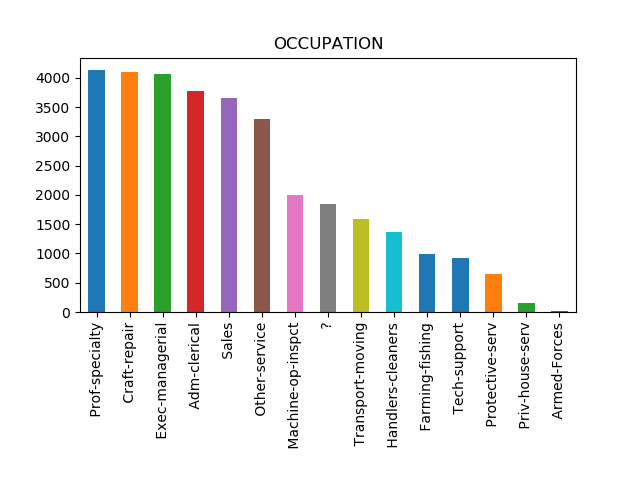
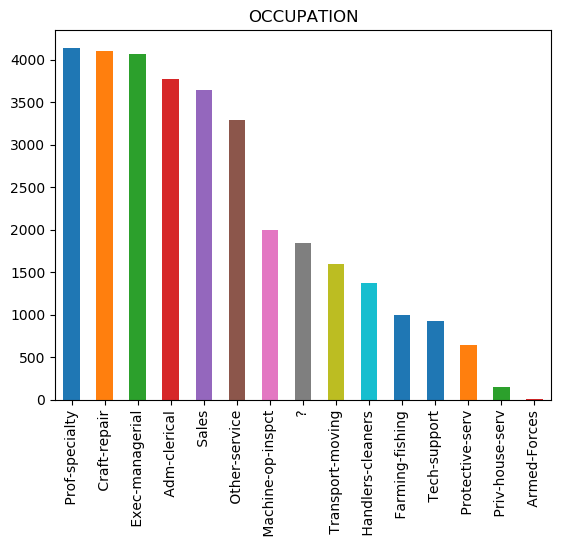
adding corr map

Changed region(s): [[0.0, 0.0, 0.9645, 0.9688]]

diff --git a/solution/preprocessors/data_loader.py b/solution/preprocessors/data_loader.py
@@ -16,6 +16,8 @@ if sys_pf == 'darwin':
 else:
     import matplotlib.pyplot as plt
 
+import seaborn as sns
+
 plt.tight_layout()
 
 RUN_PATH = os.path.dirname(os.path.dirname(os.path.realpath(__file__)))
@@ -46,19 +48,28 @@ def download_census_data_and_save_as_csv():
         )
 
 
-def output_graphs(df, output_dir=r'', columns=[], gtype='hist'):
+def output_graphs(df, output_dir='', columns=[], gtype='hist'):
     for column in columns:
         if gtype == 'hist':
             values = df[column]
         elif gtype == 'bar':
             values = df[column].value_counts()
         else:
-            raise Exception('Unsupported gtyp')
+            raise Exception('Unsupported gtype')
         values.plot(kind=gtype, title=column.upper())
-        if gtype == 'bar':
-            plt.subplots_adjust(bottom=0.35)
-        plt.savefig(os.path.join(output_dir, '%s_histogram.png' % column))
+        plt.savefig(os.path.join(output_dir, '%s_histogram.png' % column), bbox_inches="tight")
         plt.close()
+
+
+def plot_heatmap(df, columns, output_dir='', file_name='', title=''):
+    sns.heatmap(
+        df[columns].corr(),
+        annot=True,
+        fmt='.2f',
+    )
+    plt.title(title)
+    plt.savefig(os.path.join(output_dir, file_name), bbox_inches="tight")
+    plt.close()
 
 
 class CensusDataLoader(object):
@@ -365,10 +376,21 @@ if __name__ == '__main__':
         gtype='hist'
 
     )
-    # dl = CensusDataLoader(census_df)
-    # dl.apply_pipeline()
-    #
-    # print(dl.df.head())
+
+    plot_heatmap(
+        CensusDataLoader(census_df).apply_pipeline(),
+        columns=['age', 'capital-gain', 'capital-loss', 'hours-per-week', 'income_num'],
+        output_dir=os.path.join(RUN_PATH, 'preprocessors/census_histograms'),
+        title='Census Heat Map',
+        file_name='census_heatmap.png')
+
+    plot_heatmap(
+        wine_df,
+        columns=wine_df.columns,
+        output_dir=os.path.join(RUN_PATH, 'preprocessors/wine_histograms'),
+        title='Wine Heat Map',
+        file_name='wine_heatmap.png')
+
     print('Initial wine length', len(wine_df))
     wdl = WineDataLoader(wine_df)
     wdl.apply_pipeline()

diff --git a/solution/classifiers/wine_neural_network.py b/solution/classifiers/wine_neural_network.py
@@ -1,5 +1,6 @@
 import os
 import sys
+import timeit
 
 # a way to get around relative imports outside of this package
 sys.path.append(os.path.dirname(os.path.dirname(os.path.dirname(os.path.realpath(__file__)))))
@@ -67,9 +68,14 @@ print(grid_search.best_params_)
 
 # train the best model
 best_model = grid_search.best_estimator_
+# Time fitting best model
+start = timeit.default_timer()
 best_model.fit(x_train, y_train)
+end = timeit.default_timer()
+print('Time to fit:', end-start)
+helpers.log_fit_time('WINE_NN', end-start)
 
-# Predict income with the trained best model
+# Predict quality with the trained best model
 y_pred = best_model.predict(x_test)
 
 helpers.produce_model_performance_summary(

diff --git a/solution/classifiers/wine_decision_tree.py b/solution/classifiers/wine_decision_tree.py
@@ -4,6 +4,7 @@ This serves as a script and can by run directly.
 """
 import os
 import sys
+import timeit
 
 # a way to get around relative imports outside of this package
 sys.path.append(os.path.dirname(os.path.dirname(os.path.dirname(os.path.realpath(__file__)))))
@@ -81,7 +82,12 @@ print(grid_search.best_params_)
 
 # train the best model
 best_model = grid_search.best_estimator_
+# Time fitting best model
+start = timeit.default_timer()
 best_model.fit(x_train, y_train)
+end = timeit.default_timer()
+print('Time to fit:', end-start)
+helpers.log_fit_time('WINE_NN', end-start)
 
 # Export decision tree to graphviz png
 helpers.export_decision_tree_to_file(

diff --git a/solution/classifiers/census_decision_tree.py b/solution/classifiers/census_decision_tree.py
@@ -14,6 +14,7 @@ We do the following steps:
 """
 import os
 import sys
+import timeit
 
 # a way to get around relative imports outside of this package
 sys.path.append(os.path.dirname(os.path.dirname(os.path.dirname(os.path.realpath(__file__)))))
@@ -108,7 +109,12 @@ print(grid_search.best_params_)
 
 # train the best model
 best_model = grid_search.best_estimator_
+# Time fitting best model
+start = timeit.default_timer()
 best_model.fit(x_train, y_train)
+end = timeit.default_timer()
+print('Time to fit:', end-start)
+helpers.log_fit_time('WINE_NN', end-start)
 
 # Export decision tree to graphviz png
 helpers.export_decision_tree_to_file(

diff --git a/solution/classifiers/census_neural_network.py b/solution/classifiers/census_neural_network.py
@@ -6,6 +6,7 @@ We do the following steps:
 """
 import os
 import sys
+import timeit
 
 # a way to get around relative imports outside of this package
 sys.path.append(os.path.dirname(os.path.dirname(os.path.dirname(os.path.realpath(__file__)))))
@@ -76,7 +77,12 @@ print(grid_search.best_params_)
 
 # train the best model
 best_model = grid_search.best_estimator_
+# Time fitting best model
+start = timeit.default_timer()
 best_model.fit(x_train, y_train)
+end = timeit.default_timer()
+print('Time to fit:', end-start)
+helpers.log_fit_time('WINE_NN', end-start)
 
 # Predict income with the trained best model
 y_pred = best_model.predict(x_test)

diff --git a/solution/classifiers/helpers.py b/solution/classifiers/helpers.py
@@ -45,7 +45,11 @@ def timer(func):
     return func_timer
 
 
-@timer
+def log_fit_time(model_origin, total_time):
+    with open('times.txt', 'a') as time_results:
+        time_results.write(model_origin.upper() + ' FIT TIME: ' + str(total_time) + '\n')
+
+
 def produce_model_performance_summary(best_model, x_test, y_test, y_pred,
                                       output_location, grid_search=None, cv=5, scoring='accuracy'):
     with open(output_location, 'w') as output:
